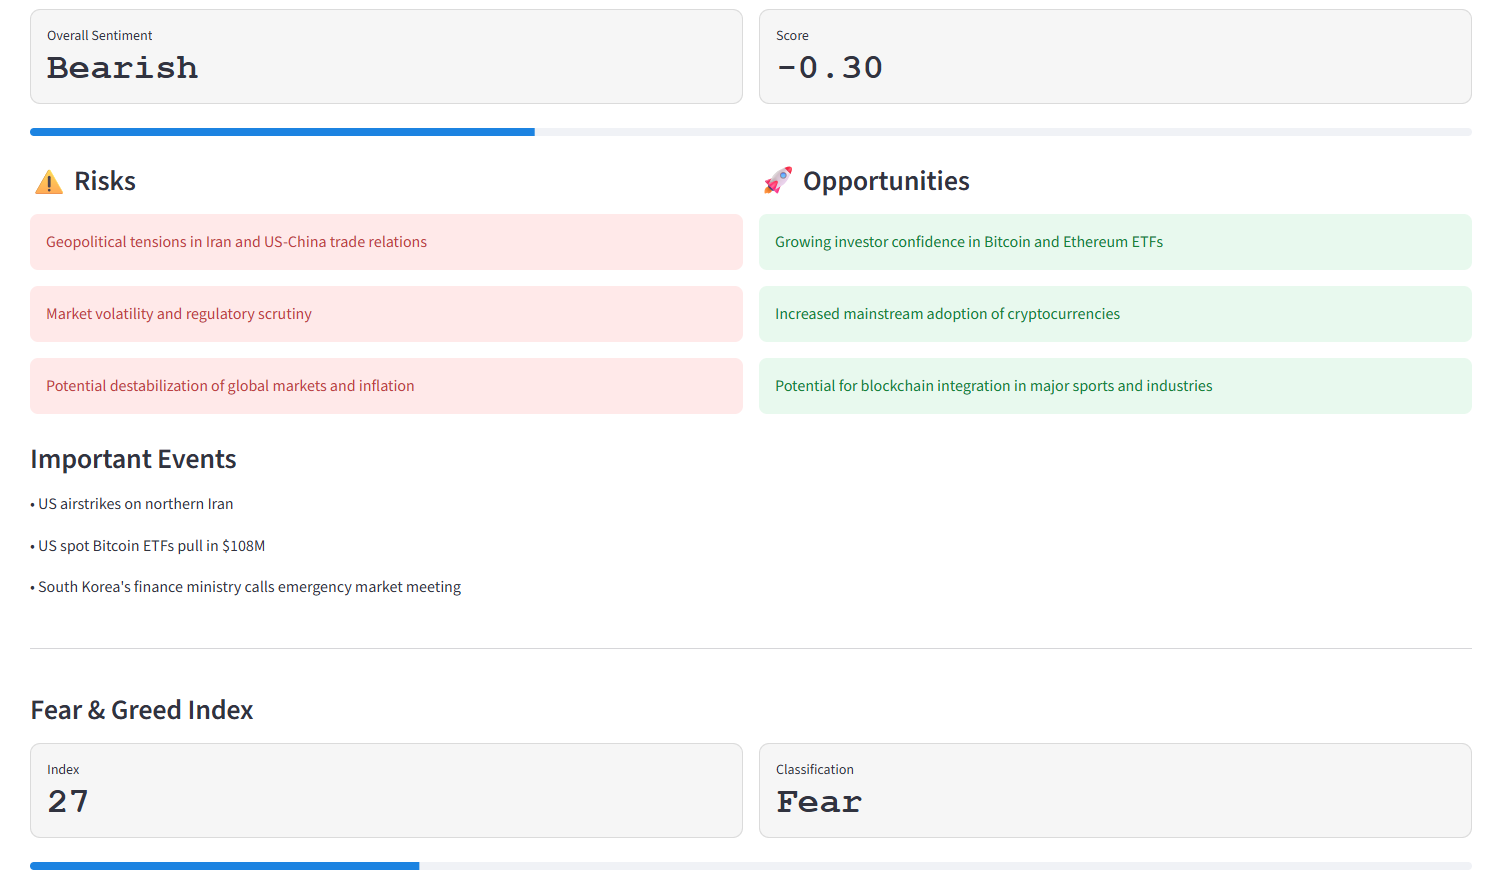
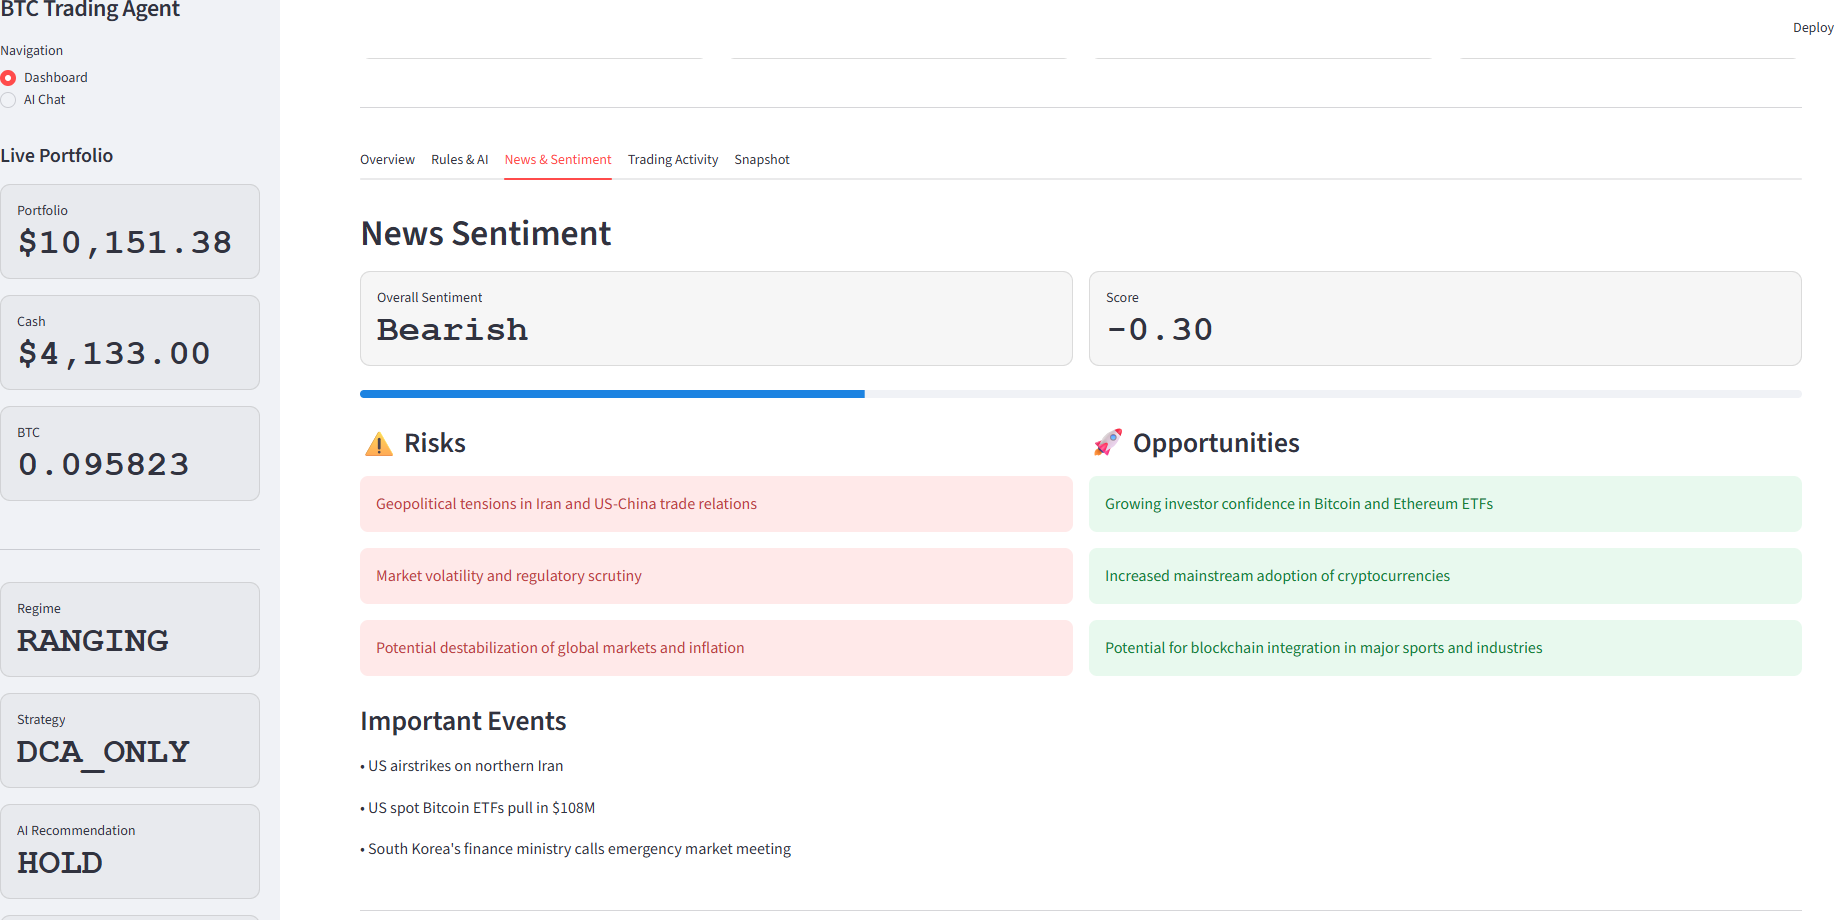
readme modified

diff --git a/readme.md b/readme.md
@@ -96,6 +96,8 @@ The system automatically:
 Summarized results are cached locally (news_sentiment.json) and rendered on
 the dashboard, so the LLM isn't re-queried on every page load.
 
+![Chatbot](images/Chatbot.png)
+
 ### Rule-Based Trading Engine
 
 Every trading decision is made through deterministic rules.
@@ -139,6 +141,7 @@ Every simulated order is recorded with:
 
 **No real funds are used.** This is a simulation environment for strategy
 validation and research.
+![Trading_activity](images/trading_activity.png)
 
 ###  Streamlit Dashboard
 
@@ -463,13 +466,9 @@ Data Science | Machine Learning | Generative AI | Financial Analytics
 ---
 
 ## Images
-![Chatbot](images/chatbot-1.png)
-![Chatbot news](images/chatbot%20news.png)
+![BTnews](images/news_sentiment.png)
 ![Performance](images/performance.png)
 ![Dashboard](images/dashboard.png)
-![Telegram msg](images/telegram%20msg.png)
-![Chatbot buy](images/chatbot%20buy.png)
-![Trading activity](images/Trading%20activity.png)
-![News sentiment](images/news%20sentiment.png)
-![AI Reasoning](images/rules%20and%20AI.png)
-![Telegram news](images/Telegram%20news.png)
+![Telegram msg](images/telegram_msg.png)
+![Trading activity](images/trading_activity.png)
+![Telegram news](images/Telegram_news.png)
